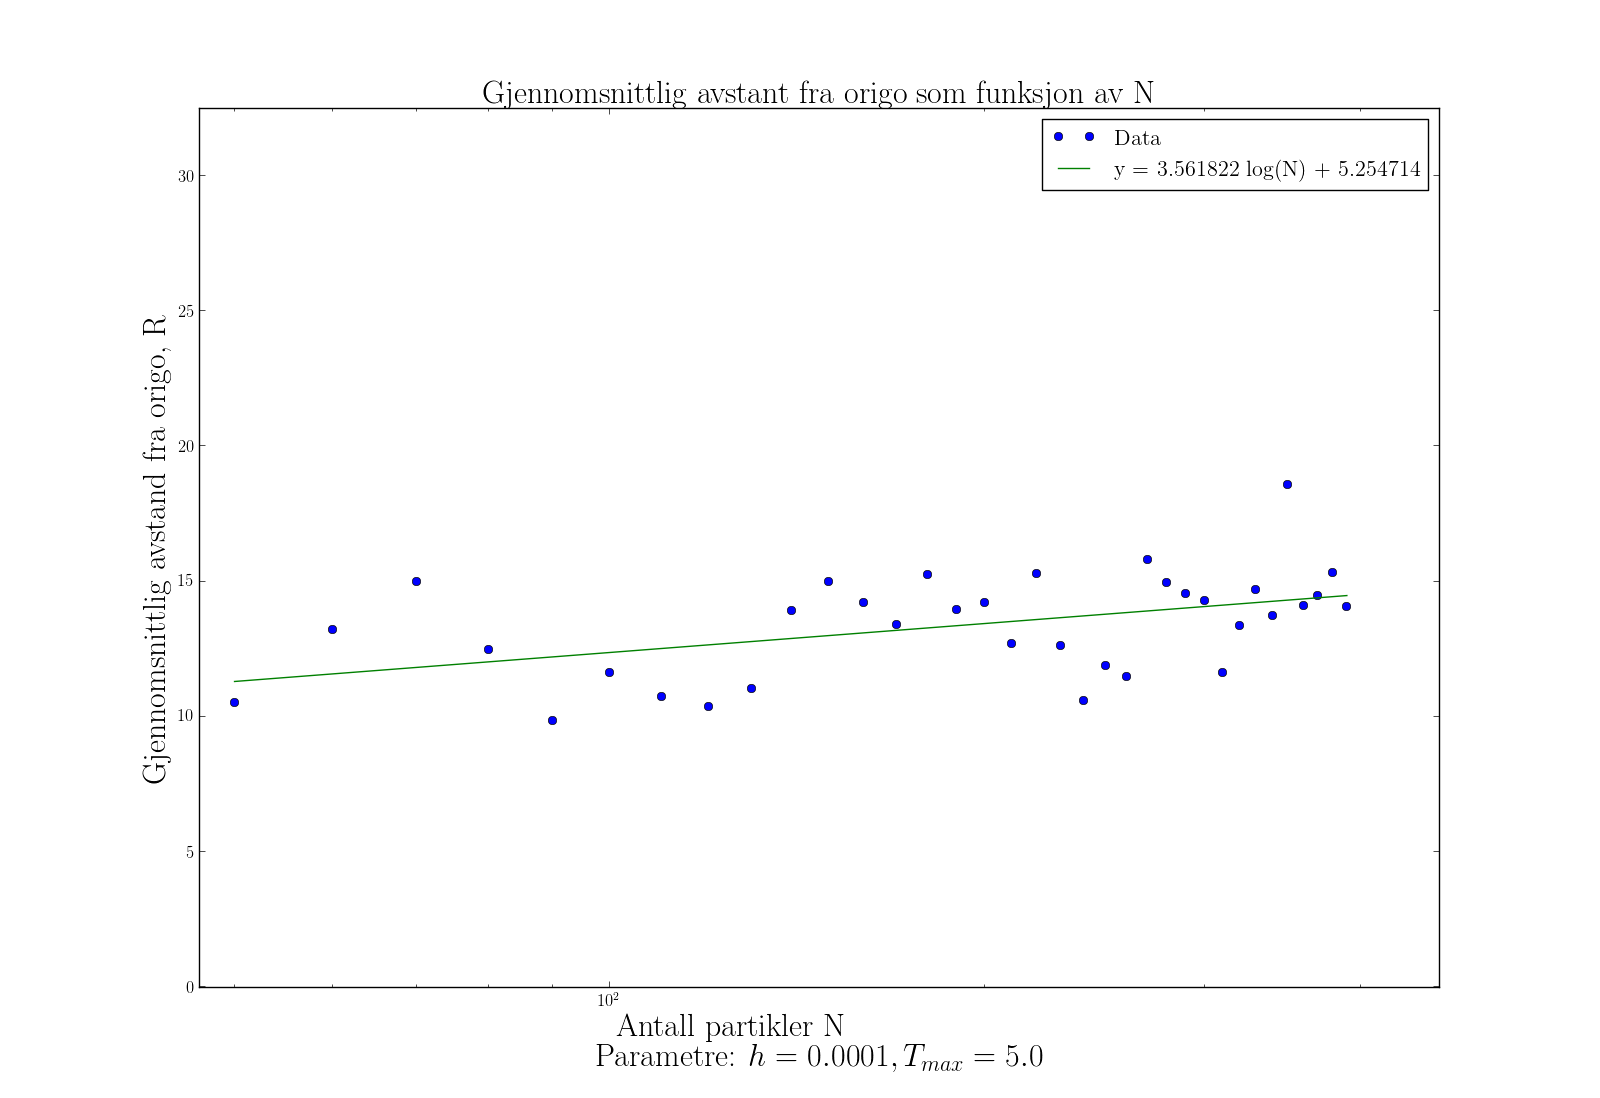
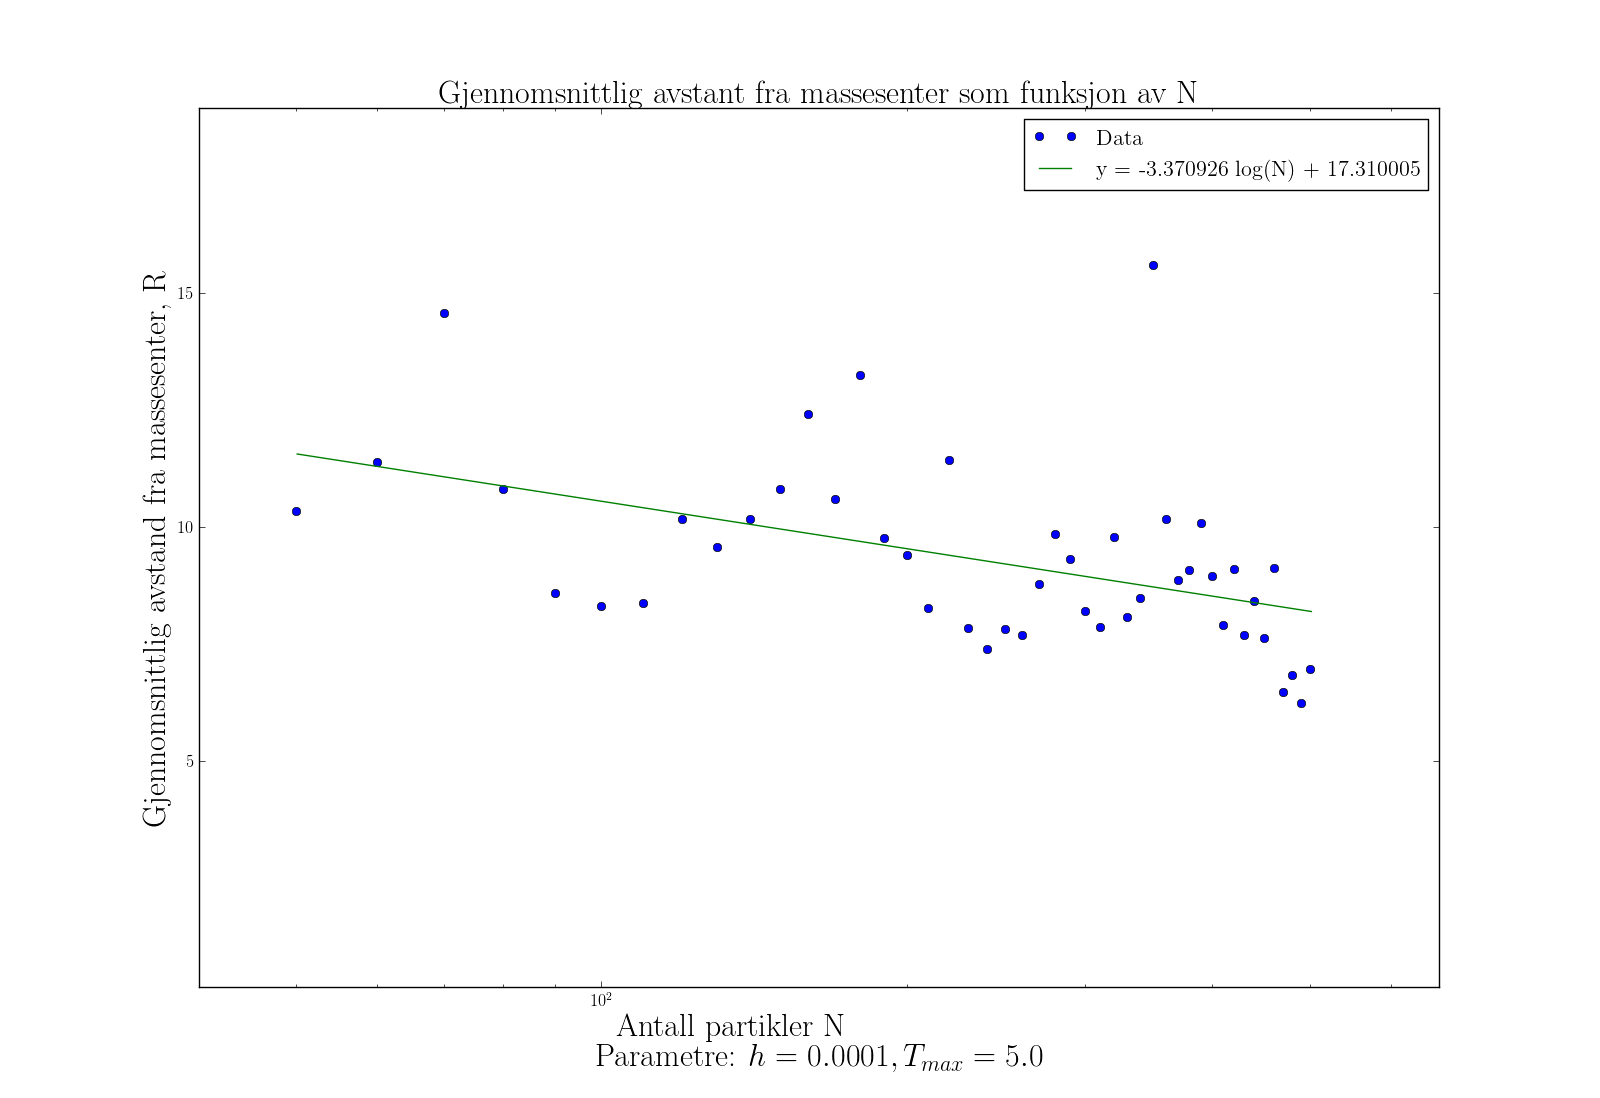
Prosjekt 5 ferdiggit statusgit status Gratulerer til oss.

diff --git a/project5/report/report.tex b/project5/report/report.tex
@@ -134,7 +134,7 @@ Algoritmen for metoden er gitt som følger:
 
 \subsection{Initialisering av systemet}
 \label{sec:init-av-system}
-Vi kan selv velge fritt starttilstanden til systemet vårt. Vi velger å
+ Vi velger å
 begynne med $N$ objekter fordelt uniformt innenfor en sfære med
 radius $R_0=20 ly$ (light years). Objektene gir vi en tilfeldig masse med
 en Gaussisk fordeling rundt snittverdien $10M_\odot$ og et standardavvik
@@ -309,7 +309,7 @@ ut, men vi ser at det er en nødvendighet for å få god presisjon i beregningen
 \subsection{Energibevaring}
 Selv om animasjoner alltid er flott, tenker vi det kan være lurt å ha en mer
 'matematisk' test på systemet vårt. Dette gjør oss også mer egnet til
-å gjøre en kvalitativ vurdering av hvilken av de løsningsmetodene som er best.
+å gjøre en vurdering av hvilken av de løsningsmetodene som er best.
 I et slikt ideelt system med bare 
 gravitasjon, en konservativ kraft, er det naturlig å se på energibevaring. Vi får
 energien
@@ -323,14 +323,14 @@ E_{tot} = E_{p} + E_{k} = \text{konstant}
 I vedlegg \ref{lst:methodcomptable} ser vi en sammenligning av energibevaringen til 
 våre to metoder. Tabellen viser den relative feilen i energibevaring,
 samt tiden som ble brukt, for begge metoder og for flere tider og
-steglengder.  Vi ser begge metodene oppnår god presisjon med for tilstrekkelig
+steglengder.  Vi ser begge metodene oppnår god presisjon med tilstrekkelig
 liten steglengde. RK4 bruker jevnt over omtrent dobbelt så lang tid
 som Verlet. For å spare kjøretid velger vi derfor å bruke 
 Velocity-Verlet. Det kan hende vi mister noe presisjon sammenliknet med
 å bruke RK4, men vi ønsker å kunne kjøre beregninger for lange tider
 og store systemer. Det betyr at så lenge metoden er stabil med tiden,
-så er kjøretid mer viktig enn kortsiktig presisjon. Tabellen viser
-oss også at vi trenger ganske små tidssteg for å få god
+så er kjøretid mer viktig enn kortsiktig presisjon. Tabellen i vedlegg \ref{lst:methodcomptable}
+ viser oss også at vi trenger ganske små tidssteg for å få god
 energibevaring.\footnote{Merk at tabellen i vedlegg
   \ref{lst:methodcomptable} er laget med data generert med en
   tidligere versjon av hovedprogrammet. Vi mener at de endringene som
@@ -347,7 +347,8 @@ av det opprinnelige kuleskallet. Dette er partikler som ikke vil
 være en del av vår likevektstilstand, og vi ønsker derfor å ha muligheten
 til å se bort fra dem. Men hvordan kan vi identifisere en partikkel
 som er skutt ut? Vi vet at en partikkel med $E_{tot} > 0$ har $E_K > |E_p|$, og
-vil derfor unnslippe galaksehopen. Dette viser seg derimot å være ustabilt. Se
+vil derfor unnslippe galaksehopen. Å ha dette kriteriet for utskutte partikler
+viser seg derimot å være ustabilt. Se
 f.eks. figur \ref{fig:energivariasjon} der vi kan se at den gjennomsnittlige
 energien varierer lite, selv om den 'lokale' energien noen ganger gjør et hopp.
  På grunn av denne lokale numeriske ustabiliteten ser vi oss nødt til å gjøre
@@ -396,8 +397,7 @@ ser vi følgende:
   \item Alle partiklene begynner i ro, og beveger seg sakte inn mot
     origo.
   \item Alle partiklene blir most sammen i sentrum av systemet.
-  \item Partiklene spretter tilbake igjen, noen helt ut av systemet,
-    andre i mindre grad.
+  \item Partiklene spretter tilbake igjen, noen helt ut av systemet.
   \item Massenteret beveger seg vekk fra origo med tilnærmet konstant
     hastighet slik vi ser i figur \ref{fig:massesenter}.
   \item Vi står til slutt igjen med et redusert antall partikler som
@@ -443,7 +443,7 @@ ser ut til å komme forsinket på figuren er på grunn av at vi
 krever at partikkelen også er utenfor radiusen $R_0$, noe som selvsagt
 tar en viss tid. Deretter bruker systemet litt tid på å stabilisere
 og etter omtrent $t = 2.5\,\tau_\text{crunch}$ ligger energien igjen
-flatt. 
+flatt. Dette er likevekt. 
 
 Grunnen til at totalenergien blir mer negativ når vi tar ut partiklene
 følger logisk av at vi bare tar ut partikler som har netto positiv
@@ -472,7 +472,9 @@ tid på å nå et nytt stabilt energinivå.
 I figur \ref{fig:prosentandel-utskutte} kan vi se hvordan prosentandelen
 av partiklene som blir skutt ut endrer seg som funksjon av N. Vi ser
 store variasjoner i punktene, men en klar trend som viser at en større
-prosentandel av partiklene vi begynner med blir skutt ut for større N. 
+prosentandel av partiklene vi begynner med blir skutt ut for større N. Som en
+konsekvens av dette følger det også at en større prosentandel av energien vil forsvinne
+for større $N$.
 
 \end{multicols}
 \begin{figure}[ht!]
@@ -480,7 +482,8 @@ prosentandel av partiklene vi begynner med blir skutt ut for større N.
   \includegraphics[width=\textwidth]{../fig/prosentandel.png}
   \caption{\label{fig:prosentandel-utskutte} En figur som viser andel av partikler
   som blir skutt ut som funksjon av $N$. Vi ser store variasjoner i punktene, men en klar
-  trend at større $N$ gir større andel utskutte partikler.}
+  trend at større $N$ gir større andel utskutte partikler. Slik ser vi også at en større
+  andel av energien vil forsvinne når $N$ øker.}
 \end{figure}
 \begin{multicols}{2}
 
@@ -552,11 +555,37 @@ modell:
 \begin{align}
   \Xi(r) = \frac{n_0}{1+\left(\frac{ r }{ r_0 }\right)^4}
 \end{align}
-Vi har ikke dratt denne modellen opp av hatten. Modellen og
+ Modellen og
 skaleringen er tatt fra artikkelen i referanse~\cite{cold-collapse}. Selv om vi ikke har fått
 datapunkter langs hele modellkurven slik det står i artikkelen, så er
 vi overrasket over hvor tilsynelatende godt vi har fått modellkurven
-til å passe med datasettet. 
+til å passe med datasettet.
+
+\subsubsection{Gjennomsnittlig avstand til massesenter}
+I figur \ref{fig:gjennomsnittlig} ser vi at den gjennomsnittlige avstanden til 
+massesenteret minker som funksjon av $N$. Dette kan vi forklare med at kjernen
+blir mer massiv ved større $N$, og derfor også trekker partiklene tetter på seg.
+Det er stor spredning i dataene, men det kan godt være at trenden ikke er fullt
+så tydelig for små $N$, slik vi har her. Til sammenligning kan vi se på 
+~\cite[figur 1]{cold-collapse} der et lignende plot er laget, men med et mye større
+system. 
+
+
+\end{multicols}. 
+
+\begin{figure}[ht]
+  \centering
+  \includegraphics[width=\textwidth]{../fig/gjennomsnittligavstand.png}
+  \caption{\label{fig:gjennomsnittlig} Plot av gjennomsnittlig avstand
+    til massesenter etter likevekt, som funksjon av $N$. Vi ser en nedadgående
+  trend. Det kan vi forklare ved at kjernen blir mer massiv og trekker sterkere
+  på legemene når $N$ blir større.}
+\end{figure}
+
+
+\begin{multicols}{2}
+
+
 
 
 \end{multicols}. 
@@ -592,7 +621,8 @@ klasseprogrammering i C++ og også mer komfortable med databehandling
 i Python. Mange-legeme-systemet har også vist oss at
 tilsynelatende 'kaotiske' resultater, ofte kan tilnærmes
 med en overraskende enkel funksjon. I dette tilfellet eksempelvis figur
-\ref{fig:viral} og \ref{fig:nummertetthet}.
+\ref{fig:viral} og \ref{fig:nummertetthet} som vi har tilpasset en 
+forventet kurve med gode resultater.
 
 Nok en gang har vi fått oppleve viktigheten av grundig testing
 av programmet, kanskje spesielt i start-fasen av et nytt prosjekt. Da 

diff --git a/project5/src/radialDensity.py b/project5/src/radialDensity.py
@@ -15,7 +15,7 @@ from mpl_toolkits.mplot3d import Axes3D
 fig_dummy, dummy = plt.subplots()
 fig, ax = plt.subplots()
 fig, dax = plt.subplots()
-for N_index, N in enumerate(range(300,501,100)):
+for N_index, N in enumerate(range(300,501,10)):
     datafile = 'data/Nbody_position_Verlet_-9.210340_5.000000_%d_1.dat' %N
     data = loadtxt(datafile)
 
@@ -69,7 +69,7 @@ for N_index, N in enumerate(range(300,501,100)):
                                        int(max(r))+1,0.5),
                                rwidth=1, #weights = ones(N_)/N_**2,
                                   label= 'N = %d' %N,normed=True)
-    plt.setp(patches, 'alpha', 1-N_index*0.33)
+#    plt.setp(patches, 'alpha', 1-N_index*0.33)
 
     binvolums = 4*pi/3 * bins**3
     dax.plot(bins[1:], n/binvolums[1:])
@@ -98,7 +98,7 @@ dummy.set_ylabel(r'Nummertetthet, $n(r)$',size=23)
 dummy.legend(prop={'size':16})
 ax.legend(prop={'size':16})
 ax.set_xlabel(r'Avstand fra massesenter, [$R_0/N^{-\frac{1}{3}}$]',size=23)
-ax.set_ylabel(r'Partikkeltetthet, $\Xi(r)/N^2$',size=23)
+ax.set_ylabel(r'Partikkeltetthet, $\rho(r)/N^2$',size=23)
 #box = dummy.get_position()
 #dummy.set_position([box.x0, box.y0*1.25, box.width, box.height])
 

diff --git a/project5/src/averageDistanceFuncN.py b/project5/src/averageDistanceFuncN.py
@@ -8,7 +8,7 @@ from mpl_toolkits.mplot3d import Axes3D
 
 average_distance = []
 
-Nlist = range(500,501,10)
+Nlist = range(50,501,50)
 for N in Nlist:
     datafile = 'data/Nbody_position_Verlet_-9.210340_5.000000_%d_1.dat' %N
     data = loadtxt(datafile)
@@ -72,7 +72,7 @@ ax.set_xlabel(r'Antall partikler N \\' \
 ax.set_ylabel('Gjennomsnittlig avstand fra massesenter, R',  size=23)
 ax.set_title(r'Gjennomsnittlig avstant fra massesenter som funksjon av N', size=23)
 plt.legend(prop={'size':16})
-plt.show()
+
 
 fig2, ax2 = plt.subplots()
 plt.plot(sqrt(rc[:,0]**2 + rc[:,1]**2 + rc[:,2]**2))
@@ -81,6 +81,8 @@ ax2.set_xlabel(r'Tidssteg etter likevekt \\' \
                %(exp(logh), Tmax, N), size=23)
 ax2.set_ylabel('Massesenterets avstand fra origo',  size=23)
 ax2.set_title(r'Massesenterets avstand fra origo som funksjon av tid', size=23)
+
+
 plt.show()
 
 

diff --git a/project5/src/energy_many_N.py b/project5/src/energy_many_N.py
@@ -11,7 +11,7 @@ plt.rc('font', **{'family': 'serif', 'serif': ['Computer Modern']})
 plt.rc('text', usetex = True)
 fig, ax = plt.subplots()
 ax.hold(True)
-Nlist = range(50,301,30)
+Nlist = range(50,501,50)
 for N in Nlist:
     datafile = "data/Nbody_energy_Verlet_-9.210340_5.000000_%d_1.dat" % N
     logh, Tmax, N, check_ =  [float(datafile[:-4].split('_')[i+3]) for i in range(0,4)]
